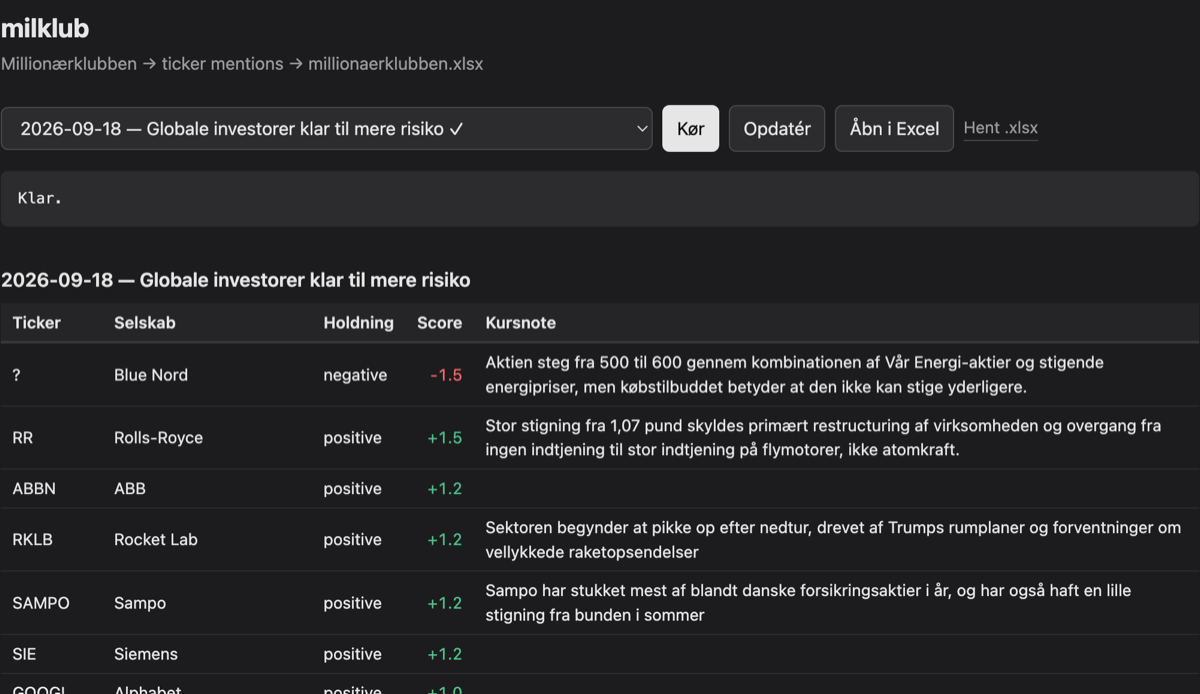
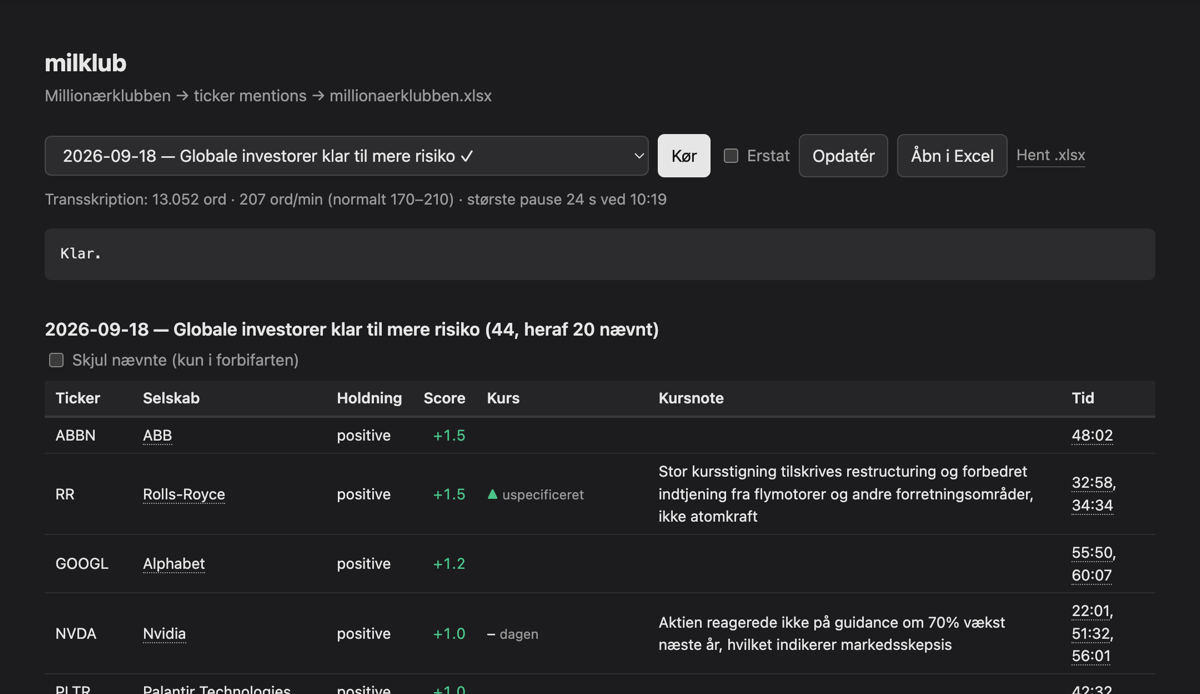
Millionærklubben: company history across episodes; thumbnail of the current UI

diff --git a/index.html b/index.html
@@ -482,7 +482,7 @@
         <li class="app has-thumb">
           <figure class="thumb"><img src="img/millionaerklubben.png" alt="Milklub web UI listing companies mentioned in a podcast episode with panel stance and score" loading="lazy"></figure>
           <h3>Millionærklubben Transcript &amp; Panel Sentiment</h3>
-          <p>Turns each episode of the Danish investing podcast Millionærklubben into data. Pulls the episode, transcribes it locally with Whisper on Apple Silicon, has Claude pick out the companies discussed, and appends tickers, panel sentiment and reported price moves to an Excel workbook. Run it from the terminal or a small local web UI that streams the log, shows the latest results, helps file mis-heard company names and follows your Mac's light or dark appearance. Scores are read as bands, not decimals. A personal research tool, not investment advice.</p>
+          <p>Turns each episode of the Danish investing podcast Millionærklubben into data. Pulls the episode, transcribes it locally with Whisper on Apple Silicon, has Claude pick out the companies discussed, and appends tickers, panel sentiment and reported price moves to an Excel workbook. Run it from the terminal or a small local web UI that streams the log, shows the latest results, helps file mis-heard company names and follows your Mac's light or dark appearance. Follow one company across every episode — how often it was discussed versus just mentioned, its average panel score, and every mention playable from the episode audio to check a garbled name by ear. Scores are read as bands, not decimals. A personal research tool, not investment advice.</p>
           <div class="tags"><span class="tag">Podcast to data</span><span class="tag">Whisper + Claude</span><span class="tag">macOS</span><span class="tag">Runs locally</span></div>
           <a class="button soon" href="mailto:github@schuleit.dk?subject=Access%20request%3A%20Millionærklubben&amp;body=Hi%20Alex%2C%0A%0AI%27d%20like%20access%20to%3A%20Millionærklubben%20Transcript%20%26%20Panel%20Sentiment%0AMy%20GitHub%20profile%20name%3A%20%0A%0AThanks">Request access</a>
         </li>
